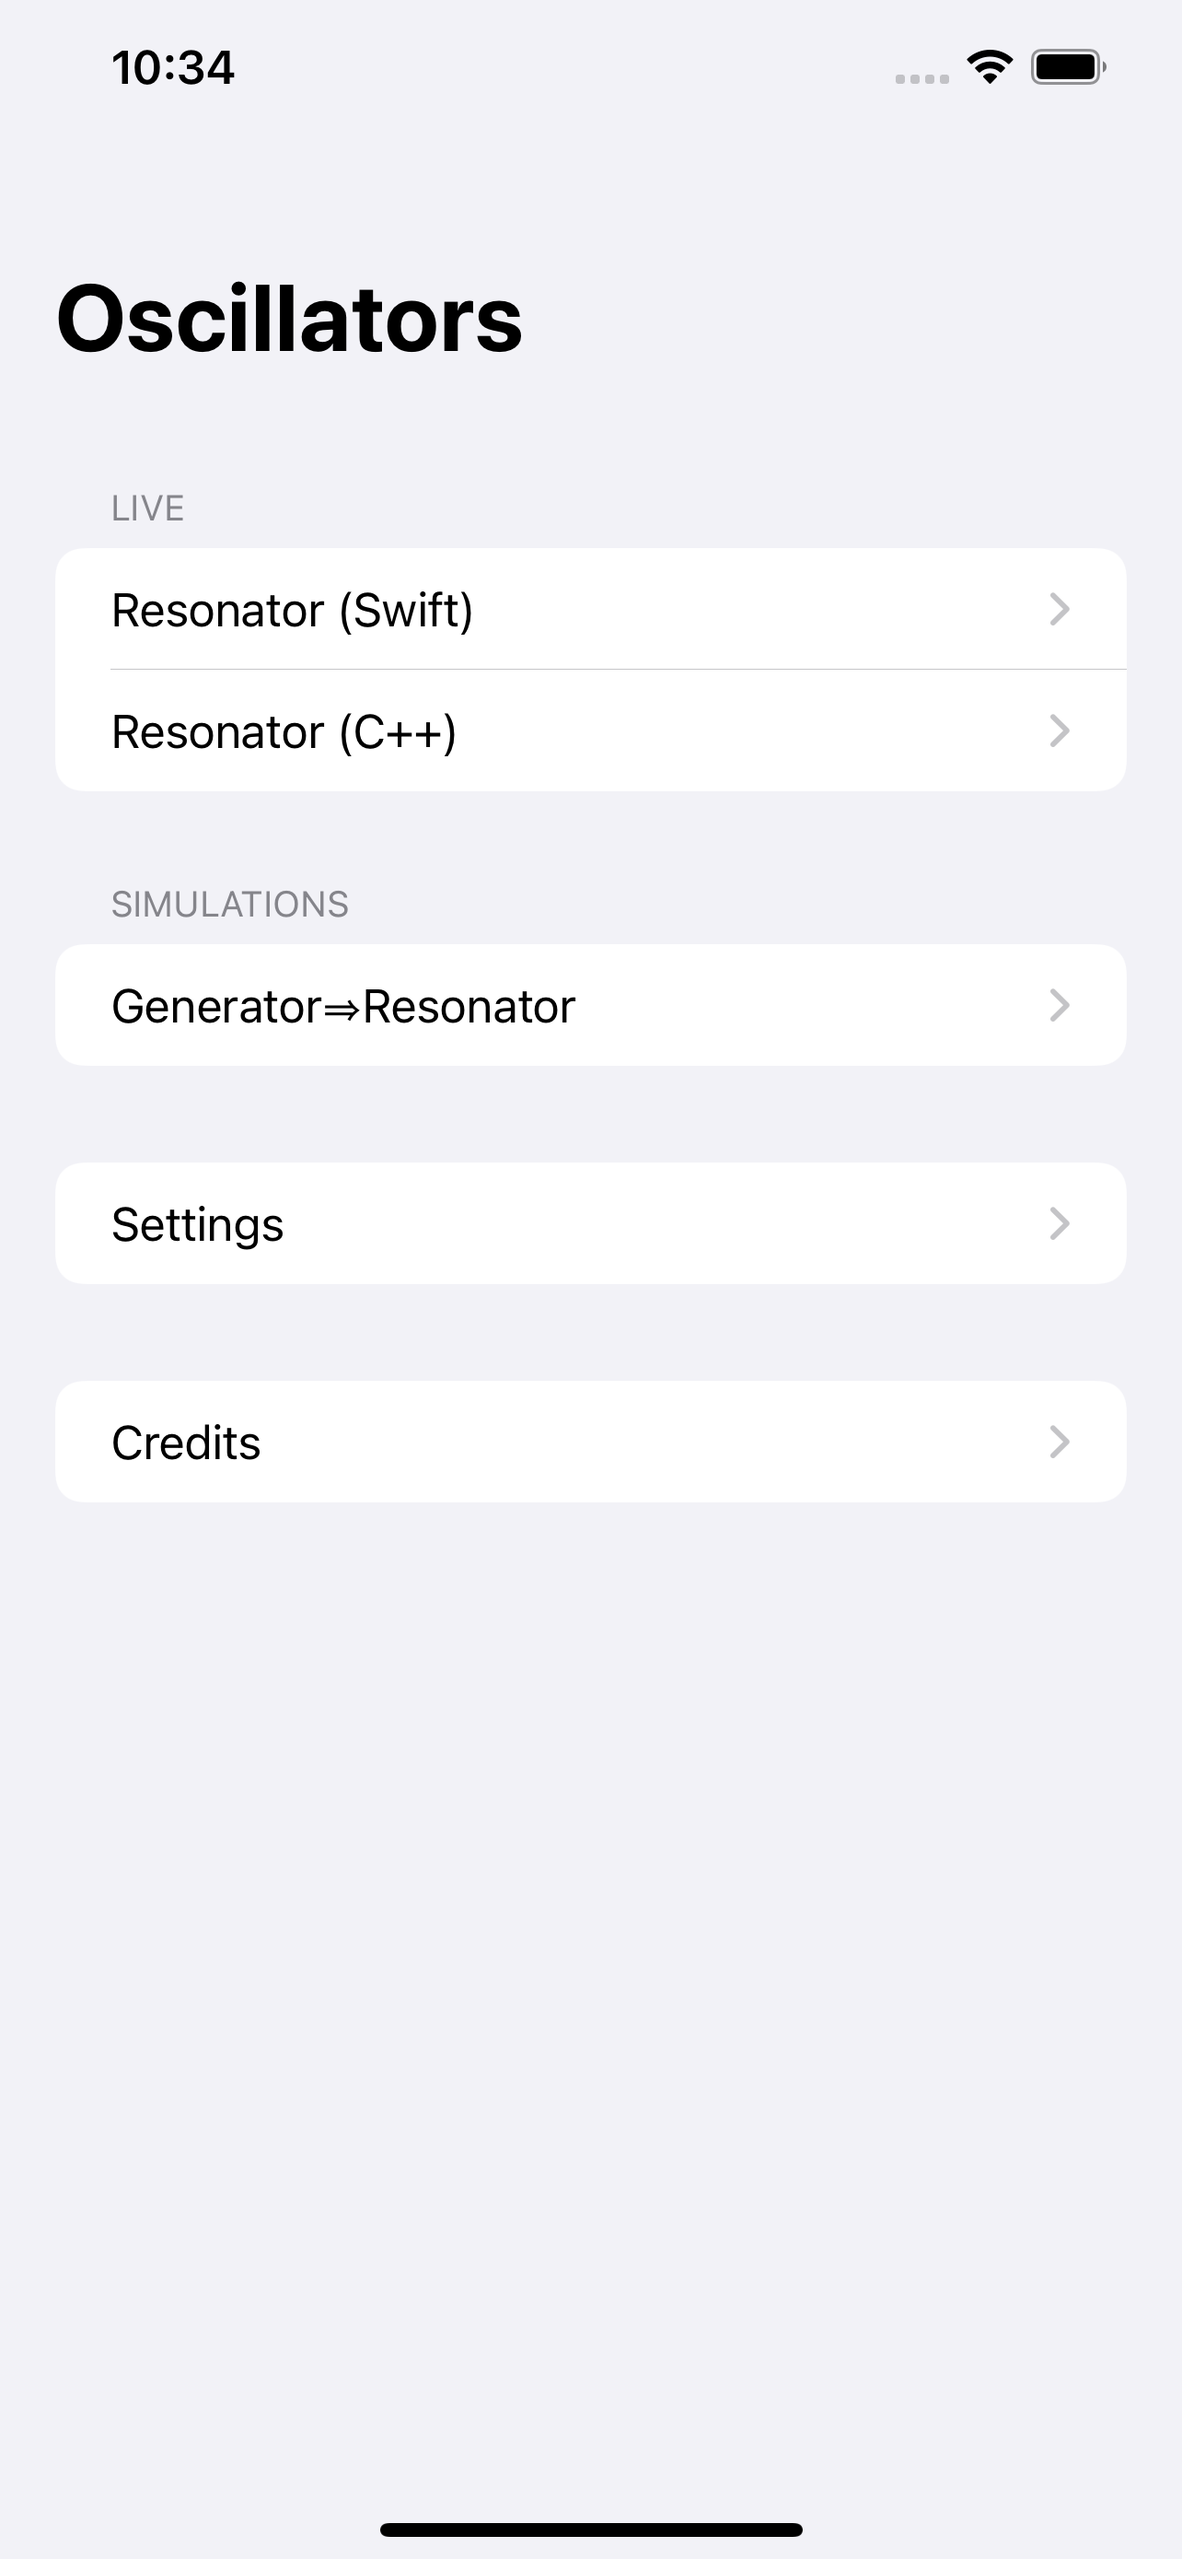
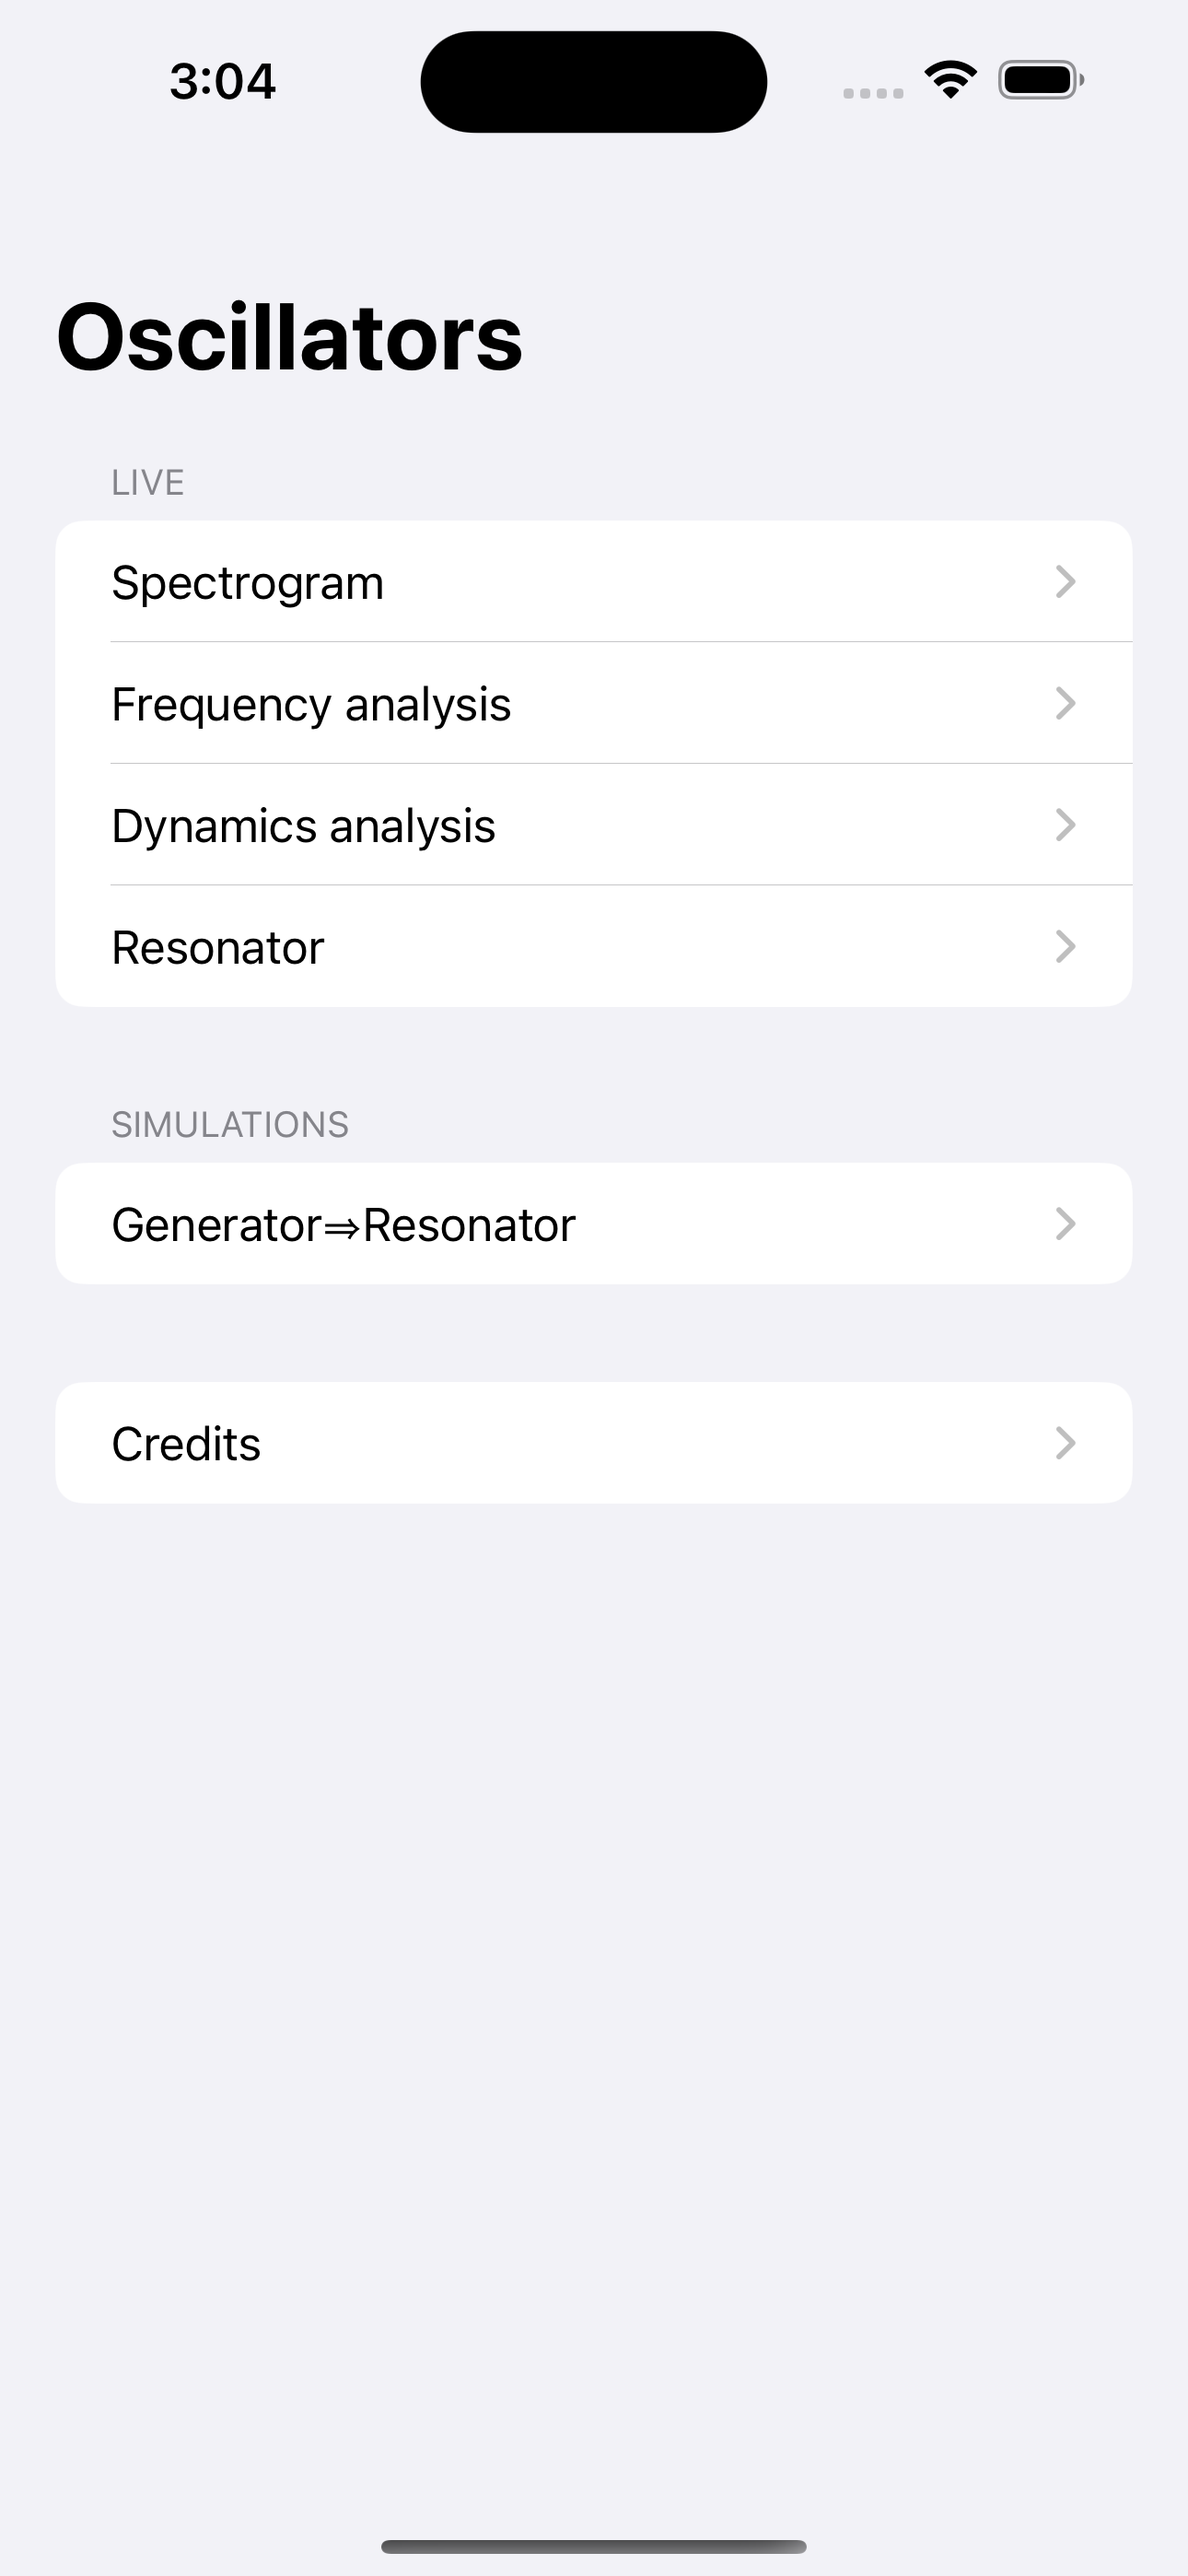
Update Oscillator app page for 2.0 (#2)

diff --git a/Oscillators/index.md b/Oscillators/index.md
@@ -27,31 +27,94 @@ For example, for a sampling rate of 44.1kHz, an oscillator (generator or resonat
 
 ## User Guide
 
+Version 2 - Resonator Banks: spectrogram, frequency analysis, dynamics analysis.
+
 <img src="assets/images/menu.png" alt="Oscillators menu" width="300"/>
 
 ### Quick Start
 
 1. Start the app and allow access to the microphone when prompted (needed for live sound processing)
-2. Tap on "Resonator" or "Resonator C++" to navigate to a live input resonator screen.
+2. Tap on "Spectrogram" or "Frequency Analysis" to navigate to a live input screen.
 3. Play some music (or sing?) and see what happens.
 
 The app offers a number of tools, some use live microphone input, some are offline experiments. Each tool is described below.
 
-The app also introduces a new [Wheel Control](https://github.com/alexandrefrancois/WheelControl) for setting floating point values within a range. This control is designed to afford finer precision than the traditional slider bar by utilizing a "wheel with gears" metaphore: drag the wheel to adjust the value, double-tap on the wheel to cycle through the gears/speeds.
+The app makes use of a new [Wheel Control](https://github.com/alexandrefrancois/WheelControl) for setting floating point values within a range. This control is designed to afford finer precision than the traditional slider bar by utilizing a "wheel with gears" metaphore: drag the wheel to adjust the value, double-tap on the wheel to cycle through the gears/speeds.
 
 ### Live
 
-Live audio processing tools, use the microphone as input. This requires running on a device that has at least one microphone / audio input. Go to the **Settings** screen to display available audio sources and select the one to use.
+Live audio processing tools, use the microphone as input. This requires running on a device that has at least one microphone / audio input. On any live screen, tap on the gear icon in the top right to open the corresponding settings sheet, which lists available audio input devices and allows to select the one to use. 
 
-#### Resonator / C++
+#### Spectrogram
 
-Feed the audio from the microphone to a resonator. Visualize the resulting amplitude at all phases, estimate the observed frequency, calculate corresponding Doppler velocity.
+The spectrogram plots the amplitude levels of the resonators in a resonator bank over time. The resonators in the bank are tuned to natural frequencies based on human auditory perception and organized from lowest to highest frequency (Gradient Frequency bank).
 
-The same tool is offered with both the Swift (manually managed memory with unsafe pointers) and C++ implementations, suitable for performance comparison purposes.
+<img src="assets/images/spectrogram.png" alt="Spectrogram" width="300"/>
+
+In the plot, frequencies are represented on the vertical axis, lowest frequency at the bottom, highest at the top. Time flows on the horizontal axis, to the left of the screen. Amplitude levels are color mapped, low to high, from green through yellow to red.
+
+**Frequency label**: spectrogram frequency value and closest note names at the level indicated by the line.
+Move line with the wheel control (drag the wheel to adjust the value, double-tap on the wheel to cycle through the gears/speeds).
+
+**Frequencies**: Frequency range covered by the bank and optional list of individual frequency tuning for each resonator.
+
+**Max amplitude value**: controls the value range mapped to the color range for plotting.
+Adjust with the wheel control (drag the wheel to adjust the value, double-tap on the wheel to cycle through the gears/speeds).
+
+**Time constant**: the parameter that regulates the dynamics of the low-pass filter through which individual contributions from each audio sample are accumulated over time in the resonators. The shorter the time constant the more reactive the resonators. Adjust with the wheel control (drag the wheel to adjust the value, double-tap on the wheel to cycle through the gears/speeds).
+
+
+#### Frequency Analysis
+
+For frequency analysis, the resonators in the bank are tuned to natural frequencies based on human auditory perception and organized from lowest to highest frequency (Gradient Frequency bank).
+
+<img src="assets/images/frequency-analysis.png" alt="Frequency analysis" width="300"/>
+
+The amplitude graph plots the current amplitude of each resonator in the bank. The resonators are ordered by increasing frequency from left to right on the horizontal axis.
+
+- Peak: the current maximum amplitude value across the resonators in the bank.
+- Count: the number of resonators in the bank.
+
+**Max value**: controls the value range for amplitude plotting.
+Adjust with the wheel control (drag the wheel to adjust the value, double-tap on the wheel to cycle through the gears/speeds).
+
+**Frequency index**: graph frequency value and closest note names at the index.
+Move line with the wheel control (drag the wheel to adjust the value, double-tap on the wheel to cycle through the gears/speeds).
+
+**Frequencies**: Frequency range covered by the bank and optional list of individual frequency tuning for each resonator.
+
+**Time constant**: the parameter that regulates the dynamics of the low-pass filter through which individual contributions from each audio sample are accumulated over time in the resonators. The shorter the time constant the more reactive the resonators. Adjust with the wheel control (drag the wheel to adjust the value, double-tap on the wheel to cycle through the gears/speeds).
+
+
+#### Dynamics Analysis
+
+For dynamics analysis, all resonators in the bank are tuned to the same frequency, and each resonator has a different time constant, set as a function of the frequency. The time constant regulates the dynamics of the low-pass filter through which individual contributions from each audio sample are accumulated over time in the resonators. The shorter the time constant the more reactive the resonator.
+
+<img src="assets/images/dynamics-analysis.png" alt="Dynamics analysis" width="300"/>
+
+The amplitude graph plots the current amplitude of each resonator in the bank. The resonators are ordered by increasing time constant value from left to right on the horizontal axis.
+
+**Target frequency**: the *desired* resonant frequency, adjust with the wheel control (drag the wheel to adjust the value, double-tap on the wheel to cycle through the gears/speeds).
+
+**Resonant frequency**: the *actual* resonant frequency, i.e. the closest frequency that corresponds to a period length that is a multiple of the sample duration (dictated by the sampling rate of the signal).
+
+**Peak**: the current maximum amplitude value across the resonators in the bank.
+
+**Count**: the number of resonators in the bank.
+
+**Max value**: controls the value range for amplitude plotting.
+Adjust with the wheel control (drag the wheel to adjust the value, double-tap on the wheel to cycle through the gears/speeds).
+
+**Time constants**: Time constant range covered by the bank and optional list of individual time constants for each resonator.
+
+
+#### Resonator
+
+The audio signal from the microphone is fed to a resonator. This tool offers a visualization of the resonator's amplitude for all phases, an estimate of the observed frequency, and the corresponding Doppler velocity (assuming a source that emits a signal at the resonator's resonant frequency).
 
 <img src="assets/images/resonator-full-scaling.png" alt="Resonator tool" width="300"/>
 
-**Target Frequency**: the *desired* resonant frequency, adjust with the wheel control (drag the wheel to adjust the value, double-tap on the wheel to cycle through the gears/speeds).
+**Target frequency**: the *desired* resonant frequency, adjust with the wheel control (drag the wheel to adjust the value, double-tap on the wheel to cycle through the gears/speeds).
 
 **Resonant frequency**: the *actual* resonant frequency, i.e. the closest frequency that corresponds to a period length that is a multiple of the sample duration (dictated by the sampling rate of the signal).
 
@@ -67,9 +130,6 @@ The same tool is offered with both the Swift (manually managed memory with unsaf
 
 **Time constant**: the parameter that regulates the dynamics of the low-pass filter through which individual contributions from each audio sample are accumulated over time in the resonator. The shorter the time constant the more reactive the resonator. Adjust with the wheel control (drag the wheel to adjust the value, double-tap on the wheel to cycle through the gears/speeds).
 
-**Performance measurements**: some computation time measurements for performance comparison purposes.
-- Processing time per sample (in ns): the average time taken to process one audio sample
-- Max samples per second: the inverse of the processing time per sample expressed in seconds, an extrapolation that gives an idea of what can be achieved in real time (if the sampling rate is 44.1kHz, the machine must be able to process at least 44,100 samples per second, and that does not take into account any utilization of the result in an app)
 
 
 ### Simulations
@@ -82,7 +142,7 @@ Feed the output of a generator to a resonator. This is an offline simulation tha
 
 **Simulation controls**: a capsule pinned at the bottom of the screen contains the current timestamp (in s), a play/pause toggle and a step button which advances the simulation by one sample duration.
 
-<img src="assets/images/generator-resonator-full.png" alt="Resonator tool" width="300"/>
+<img src="assets/images/generator-resonator-full.png" alt="Generator to resonator tool" width="300"/>
 
 **Generator frequency**: the *desired* generator frequency, adjust with the wheel control (drag the wheel to adjust the value, double-tap on the wheel to cycle through the gears/speeds).
 
@@ -97,6 +157,27 @@ Feed the output of a generator to a resonator. This is an offline simulation tha
 **Phases**: a plot of the amplitudes at each phase.
 
 **Time constant**: the parameter that regulates the dynamics of the low-pass filter through which individual contributions from each audio sample are accumulated over time in the resonator. The shorter the time constant the more reactive the resonator. Adjust with the wheel control (drag the wheel to adjust the value, double-tap on the wheel to cycle through the gears/speeds).
+
+
+### Setting Screens
+
+The live tools feature dedicated Setting sheets, accessed via the gear icon in the top right of the screen.
+
+<img src="assets/images/resonator-settings.png" alt="Resonator settings" width="300"/>
+<img src="assets/images/resonator-bank-settings.png" alt="Resonator Bank settings" width="300"/>
+
+**Implementation selection**: resonators and resonator banks come in Swift and C++ implementations, for direct performance comparison.
+
+**Update heuristic**: The resonator banks offer three update functions:
+- Sequential: calls the update function for each resonator sequentially
+- Concurrent: calls update for each resonator concurrently, with update calls grouped in a fixed number of concurrent tasks
+- Gradient Frequency heuristic: groups update calls from both ends of the bank, which should work well for Gradient Frequency banks as this should results in tasks of similar complexity (in a Gradient Frequency bank, the resonators are tuned to natural frequencies based on human auditory perception and organized from lowest to highest frequency)
+
+**Performance measurements**:
+- Processing time per sample (in ns): the average time taken to process one audio sample
+- Max samples per second: the inverse of the processing time per sample expressed in seconds, an extrapolation that gives an idea of what can be achieved in real time (if the sampling rate is 44.1kHz, the machine must be able to process at least 44,100 samples per second, and that does not take into account any utilization of the result in an app)
+
+**Input device**: Select the audio device to use for live input.
 
 
 ## Privacy Policy
